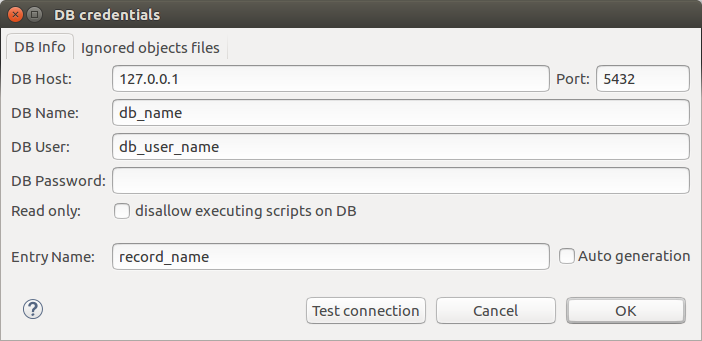
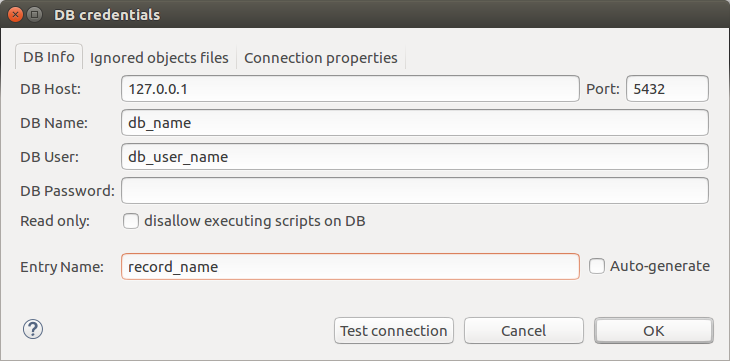
updated description for db store (connection properties)

diff --git a/docs/preferences.rst b/docs/preferences.rst
@@ -161,6 +161,12 @@
 
 .. image:: ../images/new_connection_ignore_list.png
 
+Свойства соединения можно дополнить параметрами указанными по адресу: 
+
+https://jdbc.postgresql.org/documentation/head/connect.html.
+
+.. image:: ../images/new_connection_properties.png
+
 Нажать на кнопку **OK**. 
 
 Для добавления хранилища на основе данных из уже созданного хранилища следует выделить объект хранилища баз данных, нажать кнопку |copy|. Откроется диалог **DB credentials** (Данные подключения к БД) в котором можно изменить параметры подключения. Нажать на кнопку **OK**.
